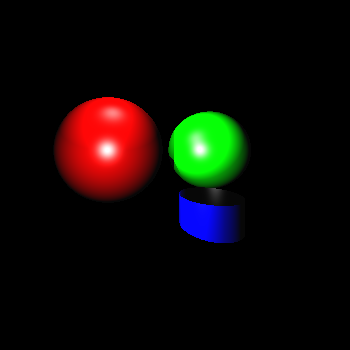
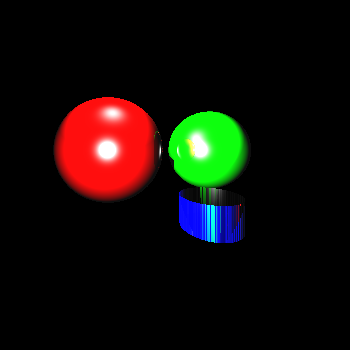
Buggy reflections

Changed region(s): [[0.1429, 0.2857, 0.7143, 0.7143]]

diff --git a/primitives.py b/primitives.py
@@ -6,11 +6,17 @@ def normalize(vector):
 
 
 class PhysicalObject(object):
-    def __init__(self, position, colour):
+    def __init__(self,
+                 position,
+                 colour,
+                 reflection=.5,
+                 specular=1.,
+                 diffuse=1.):
         self.pos = np.asarray(position)
         self.colour = np.asarray(colour)
-        self.coef_specular = 1.
-        self.coef_diffuse = 1.
+        self.coef_specular = specular
+        self.coef_diffuse = diffuse
+        self.coef_reflection = reflection
 
     def intersect(self, ray):
         raise NotImplementedError
@@ -45,6 +51,12 @@ class Ray(Vector):
 
     def at(self, s):
         return self.origin + s * self.direction
+
+    def reflected(self, pt, normal):
+        v_i = self.dir
+        v_n = normal.direction
+        v_reflected = -v_i - 2 * -v_i.dot(v_n) * v_n
+        return Ray(origin=pt, direction=v_reflected)
 
     def __repr__(self):
         return 'Ray(origin={}, direction={}'.format(self.origin, self.direction)
@@ -97,6 +109,9 @@ class Cube(PhysicalObject):
     def __init__(self, length, *args, **kwargs):
         super(Cube, self).__init__(*args, **kwargs)
         self.length = length
+
+    def intersect(self, ray):
+        return np.inf
 
 
 class Cylinder(PhysicalObject):

diff --git a/raytracer.py b/raytracer.py
@@ -76,7 +76,23 @@ class RayTracer(object):
         """ that + ambient illumination gives colour of object """
         colour += self.light_ambient
 
-        return colour
+        return colour, closest_obj, ray.reflected(intersection_pt, norm_at_intersect)
+
+    def trace_ray_with_reflection(self, orig_ray, n_reflections=5):
+        pt_colour = np.zeros(3)
+        curr_ray = orig_ray
+        reflection_idx = 1.
+        for _ in xrange(n_reflections):
+            # trace ray
+            r_result = self.trace_ray(curr_ray)
+            if r_result is None:
+                break
+            r_colour, closest_obj, reflected_ray = r_result
+            pt_colour += r_colour * reflection_idx
+            reflection_idx *= closest_obj.coef_reflection
+            curr_ray = reflected_ray
+
+        return pt_colour
 
 
 def main():
@@ -123,7 +139,7 @@ def main():
             # 4. Trace ray from intersection to the sources of illumination
             # 5. (Optional) reflection, transparency, refraction
             # TODO: super-sampling
-            rt_colour = rt.trace_ray(ray_eye_to_pixel)
+            rt_colour = rt.trace_ray_with_reflection(ray_eye_to_pixel)
             if rt_colour is not None:
                 pt_colour += rt_colour
 
